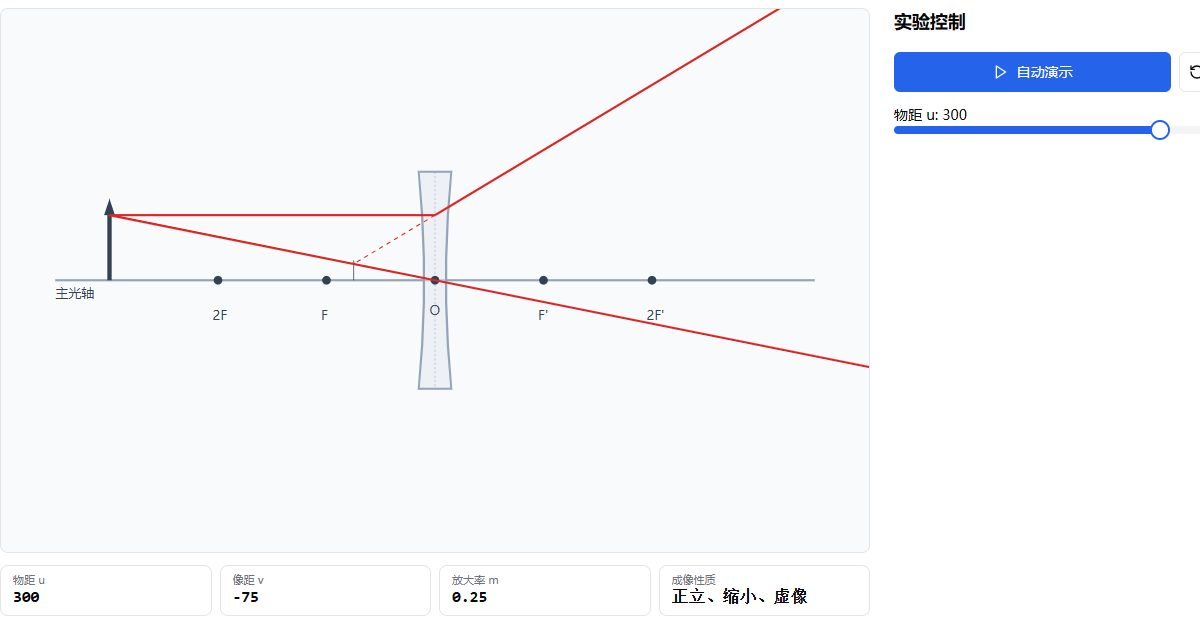
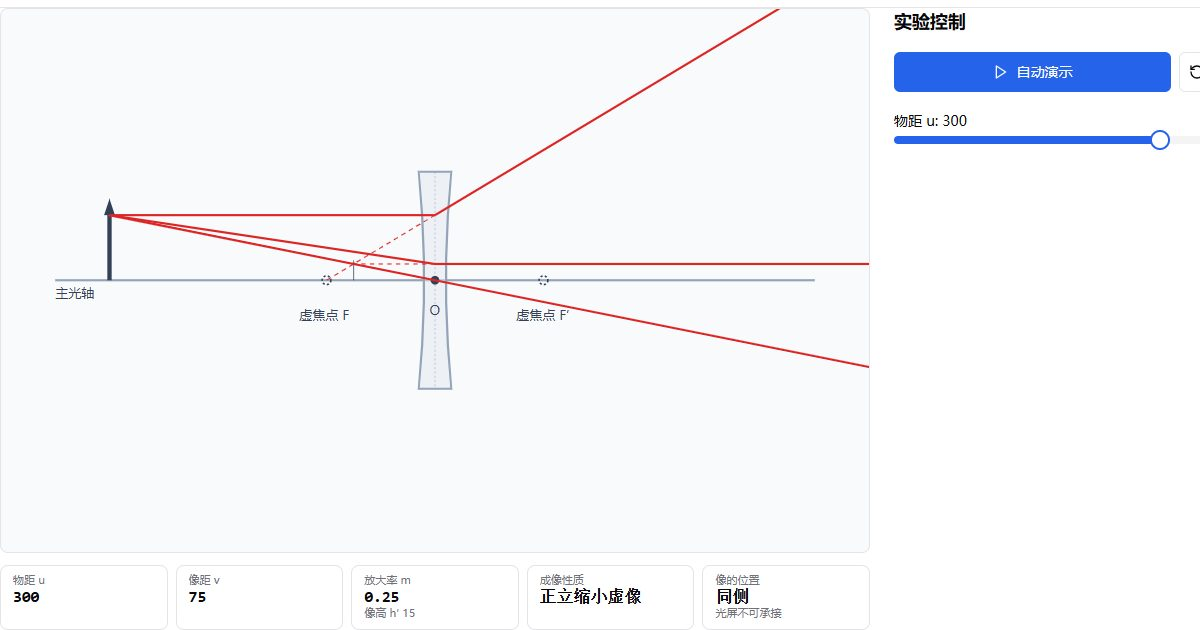
SEO again

diff --git a/scripts/gen-og-image.js b/scripts/gen-og-image.js
@@ -11,10 +11,13 @@ const BASE_URL = `http://localhost:${PORT}`;
 const CLIP_WIDTH = 1200;
 const CLIP_HEIGHT = 630;
 
+// 分享图与 demos.json 同源：新增 demo 后自动纳入，无需再手工维护 routes。
+// `buildDemoSEO` 按 slug 拼出 `og-${slug}.jpg`，因此这里少一条就会让该页 og:image 变成 404。
+const demosPath = path.join(__dirname, '..', 'src', 'lib', 'demos.json');
+const demos = JSON.parse(fs.readFileSync(demosPath, 'utf-8'));
 const routes = [
-  { slug: 'convex-lens', path: '/convex-lens/' },
-  { slug: 'concave-lens', path: '/concave-lens/' },
-  { slug: 'lens-imaging-rules', path: '/lens-imaging-rules/' },
+  { slug: 'dashboard', path: '/', isDemo: false },
+  ...demos.map((demo) => ({ slug: demo.slug, path: demo.path, isDemo: true })),
 ];
 
 async function waitForServer(url, { timeout = 30000, interval = 250 } = {}) {
@@ -81,46 +84,79 @@ async function generate() {
       await page.goto(`${BASE_URL}${route.path}`, { waitUntil: 'networkidle0', timeout: 30000 });
       await page.waitForFunction(() => window.__PRERENDER_READY__ === true, { timeout: 15000 });
 
-      // 将演示工作区滚动到内容区顶部，保证截图取到画布 + KPI + 侧栏
-      await page.evaluate(() => {
+      // 演示页：把演示工作区滚动到内容区顶部，保证截图取到画布 + KPI + 侧栏
+      // 首页：回到顶部，截图取站点头部 + 标题 + 演示卡片
+      await page.evaluate((isDemo) => {
+        if (!isDemo) {
+          window.scrollTo(0, 0);
+          return;
+        }
         const workspace = document.querySelector('[data-demo-workspace]');
         if (workspace) workspace.scrollIntoView({ block: 'start' });
-      });
+      }, route.isDemo);
       await new Promise((resolve) => setTimeout(resolve, 300));
 
-      const rect = await page.evaluate(() => {
-        const row = document.querySelector('[data-demo-row]');
-        const workspace = document.querySelector('[data-demo-workspace]');
-        if (!row || !workspace) return null;
-        const r = row.getBoundingClientRect();
-        const w = workspace.getBoundingClientRect();
-        return { x: r.x, y: w.y, width: r.width, height: r.height };
-      });
+      let clip;
+      if (route.isDemo) {
+        const rect = await page.evaluate(() => {
+          const row = document.querySelector('[data-demo-row]');
+          const workspace = document.querySelector('[data-demo-workspace]');
+          if (!row || !workspace) return null;
+          const r = row.getBoundingClientRect();
+          const w = workspace.getBoundingClientRect();
+          return { x: r.x, y: w.y, width: r.width, height: r.height };
+        });
 
-      if (!rect) {
-        throw new Error(`${route.path} 未找到演示工作区，无法生成分享图`);
+        if (!rect) {
+          throw new Error(`${route.path} 未找到演示工作区，无法生成分享图`);
+        }
+
+        clip = {
+          x: Math.max(0, Math.round(rect.x)),
+          y: Math.min(1000 - CLIP_HEIGHT, Math.max(0, Math.round(rect.y) - 8)),
+          width: Math.min(CLIP_WIDTH, Math.round(rect.width)),
+          height: CLIP_HEIGHT,
+        };
+      } else {
+        const rect = await page.evaluate(() => {
+          const container = document.querySelector('[data-page-container]');
+          if (!container) return null;
+          const r = container.getBoundingClientRect();
+          return { x: r.x, y: r.y, width: r.width, height: r.height };
+        });
+
+        if (!rect) {
+          throw new Error(`${route.path} 未找到页面容器，无法生成分享图`);
+        }
+
+        clip = {
+          x: Math.max(0, Math.round(rect.x)),
+          y: Math.min(1000 - CLIP_HEIGHT, Math.max(0, Math.round(rect.y))),
+          width: Math.min(CLIP_WIDTH, Math.round(rect.width)),
+          height: CLIP_HEIGHT,
+        };
       }
-
-      const clipX = Math.max(0, Math.round(rect.x));
-      const clipY = Math.min(
-        1000 - CLIP_HEIGHT,
-        Math.max(0, Math.round(rect.y) - 8),
-      );
-      const clipWidth = Math.min(CLIP_WIDTH, Math.round(rect.width));
 
       const target = path.join(__dirname, '..', 'public', `og-${route.slug}.jpg`);
       await page.screenshot({
         path: target,
         type: 'jpeg',
         quality: 82,
-        clip: { x: clipX, y: clipY, width: clipWidth, height: CLIP_HEIGHT },
+        clip,
       });
 
       const size = fs.statSync(target).size;
       console.log(`✅ 生成: public/og-${route.slug}.jpg (${Math.round(size / 1024)} KB)`);
     }
 
-    console.log('🎉 og:image 生成完成！');
+    const missing = routes.filter(
+      (route) => !fs.existsSync(path.join(__dirname, '..', 'public', `og-${route.slug}.jpg`)),
+    );
+    if (missing.length) {
+      throw new Error(`以下路由缺少分享图: ${missing.map((route) => route.slug).join(', ')}`);
+    }
+
+    console.log(`🎉 og:image 生成完成（共 ${routes.length} 张）！`);
   } finally {
     if (browser) await browser.close();
   }

diff --git a/index.html b/index.html
@@ -5,25 +5,25 @@
     <meta name="viewport" content="width=device-width, initial-scale=1.0" />
     
     <!-- 基础SEO优化 -->
-    <title>理科演示平台 - 数学·物理·化学·生物 交互式学习 | Physics Learn</title>
+    <title>理科演示平台 - 数学·物理·化学·生物互动演示</title>
     <meta name="description" content="面向小学、初中、高中的理科互动演示平台，覆盖数学、物理、化学、生物四科：二次函数图像与参数、斜面摩擦与受力分析、光的折射、凸透镜成像规律、凹透镜成像规律、杠杆力矩、单摆简谐振动、电磁感应、溶解度曲线、孟德尔遗传、光合作用与呼吸作用等交互式演示，配合实时数据、曲线联动与参数调节，把抽象概念变成可拖动、可观察的直观过程。" />
     <meta name="keywords" content="理科学习,数学演示,物理实验,化学演示,生物演示,二次函数图像,凸透镜成像规律,凸透镜,凹透镜成像规律,凹透镜,凸透镜成像实验,电磁感应,溶解度曲线,孟德尔遗传,光合作用,互动教学,初中理科" />
-    <meta name="author" content="Physics Learn Team" />
+    <meta name="author" content="理科演示平台" />
     
     <!-- Open Graph 社交媒体优化 -->
-    <meta property="og:title" content="理科演示平台 - 数学·物理·化学·生物 交互式学习 | Physics Learn" />
+    <meta property="og:title" content="理科演示平台 - 数学·物理·化学·生物互动演示" />
     <meta property="og:description" content="面向小学、初中、高中的理科互动演示平台，覆盖数学、物理、化学、生物四科：二次函数图像与参数、斜面摩擦与受力分析、光的折射、凸透镜成像规律、凹透镜成像规律、杠杆力矩、单摆简谐振动、电磁感应、溶解度曲线、孟德尔遗传、光合作用与呼吸作用等交互式演示，配合实时数据、曲线联动与参数调节，把抽象概念变成可拖动、可观察的直观过程。" />
     <meta property="og:type" content="website" />
-    <meta property="og:url" content="https://learn.letsdoit.today" />
-    <meta property="og:image" content="https://learn.letsdoit.today/og-image.jpg" />
-    <meta property="og:site_name" content="Physics Learn" />
+    <meta property="og:url" content="https://learn.letsdoit.today/" />
+    <meta property="og:image" content="https://learn.letsdoit.today/og-dashboard.jpg" />
+    <meta property="og:site_name" content="理科演示平台" />
     <meta property="og:locale" content="zh_CN" />
     
     <!-- Twitter Card 优化 -->
     <meta name="twitter:card" content="summary_large_image" />
-    <meta name="twitter:title" content="理科演示平台 - 数学·物理·化学·生物 交互式学习 | Physics Learn" />
+    <meta name="twitter:title" content="理科演示平台 - 数学·物理·化学·生物互动演示" />
     <meta name="twitter:description" content="面向小学、初中、高中的理科互动演示平台，覆盖数学、物理、化学、生物四科：二次函数图像与参数、斜面摩擦与受力分析、光的折射、凸透镜成像规律、凹透镜成像规律、杠杆力矩、单摆简谐振动、电磁感应、溶解度曲线、孟德尔遗传、光合作用与呼吸作用等交互式演示，配合实时数据、曲线联动与参数调节，把抽象概念变成可拖动、可观察的直观过程。" />
-    <meta name="twitter:image" content="https://learn.letsdoit.today/twitter-image.jpg" />
+    <meta name="twitter:image" content="https://learn.letsdoit.today/og-dashboard.jpg" />
     
     <!-- 结构化数据 Schema.org：站点级（页面级 JSON-LD 由 useSEO 注入） -->
     <script type="application/ld+json">
@@ -34,7 +34,7 @@
           "@type": "WebSite",
           "@id": "https://learn.letsdoit.today/#website",
           "url": "https://learn.letsdoit.today",
-          "name": "Physics Learn 理科演示平台",
+          "name": "理科演示平台",
           "description": "面向小学、初中、高中的理科互动演示平台，覆盖数学、物理、化学、生物四科。",
           "inLanguage": "zh-CN",
           "publisher": { "@id": "https://learn.letsdoit.today/#organization" }
@@ -42,11 +42,11 @@
         {
           "@type": "EducationalOrganization",
           "@id": "https://learn.letsdoit.today/#organization",
-          "name": "Physics Learn",
+          "name": "理科演示平台",
           "url": "https://learn.letsdoit.today",
-          "logo": "https://learn.letsdoit.today/logo.png",
+          "logo": "https://learn.letsdoit.today/icon-512.png",
           "sameAs": [
-            "https://github.com/physics-learn"
+            "https://github.com/letsdoit-today/letslearn"
           ],
           "educationalLevel": "小学 / 初中 / 高中",
           "educationalSubject": ["数学", "物理", "化学", "生物"]

diff --git a/scripts/gen-sitemap.js b/scripts/gen-sitemap.js
@@ -37,9 +37,10 @@ function readDemos() {
   return demos;
 }
 
-function lastMod() {
+// 取指定路径集合中最近一次提交时间；任一路径无提交记录时 git 会报错，此时返回 null 并省略 lastmod
+function gitLastCommit(paths) {
   try {
-    const iso = execFileSync('git', ['log', '-1', '--format=%cI', '--', 'src/lib/demos.json'], {
+    const iso = execFileSync('git', ['log', '-1', '--format=%cI', '--', ...paths], {
       cwd: rootDir,
       encoding: 'utf-8',
       stdio: ['ignore', 'pipe', 'ignore'],
@@ -50,17 +51,39 @@ function lastMod() {
   }
 }
 
-function buildSitemap(demos, lastmod) {
-  const routes = [{ loc: `${SITE_URL}/` }];
+// 从 src/demos/*.tsx 的 `const SLUG = '...'` 反查每个 slug 对应的组件文件，
+// 使 lastmod 能跟随页面自身改动，而不是所有页面共用 demos.json 的提交时间
+function resolveDemoSources() {
+  const demosDir = path.join(rootDir, 'src', 'demos');
+  if (!fs.existsSync(demosDir)) return new Map();
+  const sources = new Map();
+  for (const file of fs.readdirSync(demosDir).filter((name) => name.endsWith('.tsx'))) {
+    const content = fs.readFileSync(path.join(demosDir, file), 'utf-8');
+    const matched = content.match(/const SLUG = '([^']+)'/);
+    if (matched) sources.set(matched[1], path.join('src', 'demos', file));
+  }
+  return sources;
+}
+
+function buildSitemap(demos, sources) {
+  // 首页会渲染整份 demo 列表，因此 demos.json 的改动对首页是真实的内容变化
+  const homePaths = ['src/lib/demos.json', 'index.html', 'src/App.tsx', 'src/components/Dashboard.tsx'];
+  const routes = [{ loc: `${SITE_URL}/`, lastmod: gitLastCommit(homePaths) }];
   for (const demo of demos) {
     const normalized = demo.path.replace(/^\/+|\/+$/g, '');
-    routes.push({ loc: `${SITE_URL}/${normalized}/` });
+    const source = sources.get(demo.slug);
+    // 只取该页自己的组件文件：若把 demos.json 也算进来，任何新增 demo 都会把
+    // 全部页面的 lastmod 一起刷新，Google 会判定 lastmod 不可靠而直接忽略它
+    routes.push({
+      loc: `${SITE_URL}/${normalized}/`,
+      lastmod: gitLastCommit(source ? [source] : ['src/lib/demos.json']),
+    });
   }
 
   const body = routes
     .map((route) => {
       const lines = [`        <loc>${route.loc}</loc>`];
-      if (lastmod) lines.push(`        <lastmod>${lastmod}</lastmod>`);
+      if (route.lastmod) lines.push(`        <lastmod>${route.lastmod}</lastmod>`);
       lines.push(`        <changefreq>${CHANGEFREQ}</changefreq>`);
       lines.push(`        <priority>${PRIORITY}</priority>`);
       return `    <url>\n${lines.join('\n')}\n    </url>`;
@@ -84,8 +107,8 @@ function extractLocs(xml) {
 
 function main() {
   const demos = readDemos();
-  const lastmod = lastMod();
-  const content = buildSitemap(demos, lastmod);
+  const sources = resolveDemoSources();
+  const content = buildSitemap(demos, sources);
   const total = demos.length + 1;
 
   if (isCheck) {
@@ -110,8 +133,9 @@ function main() {
   }
 
   fs.writeFileSync(sitemapPath, content);
+  const withLastmod = [...content.matchAll(/<lastmod>/g)].length;
   console.log(
-    `✓ 已生成 ${path.relative(rootDir, sitemapPath)}（${total} 条 URL${lastmod ? `，lastmod ${lastmod}` : '，未获取到 lastmod 已省略'}）`,
+    `✓ 已生成 ${path.relative(rootDir, sitemapPath)}（${total} 条 URL，${withLastmod} 条带按页计算的 lastmod）`,
   );
 }
 

diff --git a/src/components/Dashboard.tsx b/src/components/Dashboard.tsx
@@ -30,11 +30,11 @@ const Dashboard: React.FC = () => {
   );
 
   useSEO({
-    title: `理科模拟实验 - 互动式理科学习平台 | ${siteName}`,
+    title: `${siteName} - 数学·物理·化学·生物互动演示`,
     description:
       '面向小学、初中、高中的理科互动演示平台，覆盖数学、物理、化学、生物四科。二次函数图像与参数、斜面摩擦与受力分析、光的折射、凸透镜成像规律、凹透镜成像规律、杠杆力矩、单摆简谐振动、电磁感应、溶解度曲线、孟德尔遗传、光合作用与呼吸作用等演示均支持参数调节与实时数据联动，帮助直观理解抽象概念。',
     keywords: `理科学习,数学演示,物理实验,化学演示,生物演示,凸透镜成像规律,凹透镜成像规律,互动教学,初中理科,${demoKeywords.join(',')}`,
-    canonical: siteUrl,
+    canonical: `${siteUrl}/`,
     ogImage: `${siteUrl}/og-dashboard.jpg`,
     jsonLd: itemList,
   });
@@ -55,9 +55,9 @@ const Dashboard: React.FC = () => {
   }, []);
 
   return (
-    <div className="container mx-auto max-w-5xl px-3 sm:px-8">
+    <div className="container mx-auto max-w-5xl px-3 sm:px-8" data-page-container>
       <div className="mb-8">
-        <h1 className="text-3xl font-bold tracking-tight mb-2">理科模拟实验</h1>
+        <h1 className="text-3xl font-bold tracking-tight mb-2">理科演示平台</h1>
         <p className="text-muted-foreground">
           探索交互式数学、物理、化学与生物演示。
         </p>

diff --git a/src/lib/Meta.tsx b/src/lib/Meta.tsx
@@ -16,7 +16,7 @@ export type Demo = {
 }
 
 export const siteUrl = 'https://learn.letsdoit.today';
-export const siteName = 'Physics Learn';
+export const siteName = '理科演示平台';
 
 export const categoryLabels: Record<string, string> = {
   math: '数学',
@@ -51,8 +51,15 @@ function buildDemoSEOUncached(slug: string) {
   const subject = categoryLabels[demo.category] ?? '理科';
   const topic = demo.topic ?? '';
 
+  const brandSuffix = ` | ${siteName}`;
+  const pageTitle = demo.title
+    ? demo.title.includes(siteName)
+      ? demo.title
+      : `${demo.title}${brandSuffix}`
+    : `${demo.name} - ${subject}${topic}互动演示${brandSuffix}`;
+
   return {
-    title: demo.title ?? `${demo.name} - ${subject}${topic}互动演示 | ${siteName}`,
+    title: pageTitle,
     description: demo.description,
     keywords: [...demo.keywords, `${subject}学习`, `${subject}互动演示`].join(','),
     canonical: `${siteUrl}${demo.path}`,

diff --git a/public/404.html b/public/404.html
@@ -3,7 +3,7 @@
 <head>
     <meta charset="UTF-8">
     <meta name="viewport" content="width=device-width, initial-scale=1.0">
-    <title>Physics Learn - 理科演示平台</title>
+    <title>理科演示平台</title>
     <script>
         // 重定向到主页面，让 SPA 处理路由
         sessionStorage.redirect = location.pathname;

diff --git a/ROADMAP.md b/ROADMAP.md
@@ -260,7 +260,7 @@
 3. **小学「科学」的归属规则**（见 3.5）：按学科归组，还是单设分组。
 4. **壳层待改（均未开 change）**：
    - `src/components/Layout.tsx` 的 `menuGroups` 已扩充为「数学 / 物理 / 化学 / 生物」四组，**仍缺「地理」**。各分组按 `category` 过滤，因此新增条目只要 `category` 取对应学科值即可自动归类。
-   - `src/components/Dashboard.tsx` 的 SEO title/description 与首页大标题已改为覆盖四科的表述（「理科模拟实验」），并补充了 `ItemList` 结构化数据与各学科数量摘要。
+   - `src/components/Dashboard.tsx` 的 SEO title/description 与首页大标题已改为覆盖四科的表述（「理科演示平台」），并补充了 `ItemList` 结构化数据与各学科数量摘要。
    - `src/lib/demos.json` 的 `category` 原全为 `physics`；`add-solubility-curve` 已首次写入 `chemistry`，`add-mendel-inheritance` 与 `add-photosynthesis-respiration` 已写入 `biology`，`add-quadratic-function-graph` 已写入 `math`，地理开科时需同步约定其 `category` 取值。
 5. **SEO 元数据已收敛为单一事实源**（2026-11-27）：
    - `src/lib/Meta.tsx` 新增 `siteName`、`categoryLabels`、`getDemoBySlug`、`buildDemoSEO`，由 `demos.json` 派生 title 模板、description、keywords、canonical、ogImage 与页面级 `BreadcrumbList` JSON-LD；15 个 demo 页面统一调用 `useSEO(buildDemoSEO(SLUG))`，不再各自硬编码。
@@ -269,6 +269,14 @@
    - `public/manifest.json` 与 `public/404.html` 的站点名称同步更新为「理科演示平台」。
    - 待办：`src/components/Layout.tsx` 的 `menuGroups` 仍缺「地理」分组，地理开科时补。
 6. **README 与 ROADMAP 的分工已固化**：README 只写「如何新增 demo」，本文件写「做什么、优先级如何」，新增 demo 时只更新本文件。
+7. **SEO 硬约束（不可省略，针对 Google Search Console 的两类问题：已抓取未编入索引 / 规范网址配置错误）**。以下六条对所有页面（含首页与新增 demo）永久生效，任何新增或改动页面都必须同时满足：
+   - **分享图必须存在**：每个路由都要有 `public/og-{slug}.jpg`（1200×630）。`scripts/gen-og-image.js` 的 routes 由 `demos.json` 自动派生并内置首页（slug `dashboard`），**不要手写路由列表**；生成后脚本会自检缺图并报错。禁止再引用 `og-image.jpg` / `twitter-image.jpg` 这类不存在的旧文件名。
+   - **canonical 必须自引用**：页面 canonical 必须与 sitemap 里该页的 URL 完全一致（含结尾斜杠）。首页统一为 `${siteUrl}/`，demo 页统一为 `${siteUrl}/{slug}/`，不得出现无斜杠、测试域名或带追踪参数的写法。
+   - **品牌名唯一且不限于物理**：全站（页面 title、`index.html`、`manifest.json`、`404.html`、JSON-LD、`robots.txt` 注释）统一用「理科演示平台」。`src/lib/Meta.tsx` 的 `siteName` 是唯一事实源，`buildDemoSEO` 会自动为每个 demo 标题追加 ` | 理科演示平台`，因此 **`demos.json` 的 `title` 里不要再写品牌名**。站点覆盖数学 / 物理 / 化学 / 生物四科，不得再出现 `Physics Learn` 这类把范围说窄的英文品牌（仓库名用 `letslearn`）。
+   - **robots.txt 只保留必要内容**：`User-agent: * / Allow: /` + `Sitemap` 声明。**不要加 `Crawl-delay`**（Bing / Yandex 会真的降速），**不要 `Disallow` 不存在或需要被索引的路径**。
+   - **sitemap lastmod 按页计算**：`scripts/gen-sitemap.js` 取每个 demo 自己 `src/demos/<File>.tsx` 的最近提交时间；首页取 `demos.json` + `index.html` + `App.tsx` + `Dashboard.tsx`。**不要把 `demos.json` 混进 demo 页的路径集合**——否则新增任意 demo 会刷新全部页面 lastmod，Google 会判定 lastmod 不可靠而整体忽略。
+   - **结构化数据引用的资源必须真实存在**：`index.html` 中 `EducationalOrganization.logo` 指向 `icon-512.png`（`public/` 内已有）。新增 JSON-LD 时不要引用未产出的文件名。
+   - 校验方式：`npm run sitemap:check` + `npm run og:image` + 构建后抽查 `dist/` 下各页 `canonical` 与 `og:image` 是否一一对应且返回 200。
 
 ---
 
@@ -280,5 +288,7 @@
 - [ ] 在 `src/lib/demos.json` 追加元数据（slug / name / category / path / description / keywords），`category` 需取对应学科
 - [ ] 在 `src/lib/demoIcons.tsx` 增加 slug 的图标映射
 - [ ] 在 `src/App.tsx` 的 `demoComponents` 注册组件
-- [ ] 运行 `npm run sitemap` 重新生成站点地图
+- [ ] 运行 `npm run sitemap` 重新生成站点地图（`npm run sitemap:check` 校验同步）
+- [ ] 运行 `npm run og:image` 生成该页分享图（`og:image` 会自动覆盖新 slug，缺图会报错）
+- [ ] 核对 SEO 硬约束（第 5 节第 7 条）：canonical 带尾斜杠、`og:image` 可访问、品牌名统一、robots.txt 无新增禁用项
 - [ ] 回到本文件勾选对应条目，补上 slug，并更新第 1 节的学科 × 学段计数

diff --git a/README.md b/README.md
@@ -7,11 +7,17 @@ To add a new demo to this project, follow these steps:
 -  Add an icon mapping for the new `slug` in `src/lib/demoIcons.tsx`.
 -  Register the component in the `demoComponents` map in `App.tsx`.
 -  In the demo component, call `useSEO(buildDemoSEO(SLUG))` once — do **not** hand-write title/description/keywords. `buildDemoSEO` in `src/lib/Meta.tsx` derives the title template, keywords, canonical, og/twitter tags and the page-level JSON-LD (`BreadcrumbList` + `LearningResource`) from `demos.json`.
--  Run `npm run sitemap` to regenerate `public/sitemap.xml` from `demos.json` (`npm run sitemap:check` verifies it is in sync).
+-  Run `npm run sitemap` to regenerate `public/sitemap.xml` from `demos.json` (`npm run sitemap:check` verifies it is in sync). `lastmod` is computed per page from the git history of that page's own source file (`src/demos/<File>.tsx`, plus `demos.json` / `index.html` / `App.tsx` / `Dashboard.tsx` for the homepage) — never add `demos.json` to a demo page's path set, or adding one demo would refresh the `lastmod` of every page.
+-  Run `npm run og:image` after `vite build` to regenerate the social share images (`public/og-{slug}.jpg`, 1200x630). The route list is derived from `demos.json` (the homepage is included as slug `dashboard`), so a new demo needs no edit in `scripts/gen-og-image.js`; the script fails loudly if any route ends up without an image.
+-  SEO checklist — required for every page, see `ROADMAP.md` §5 item 7 for the full rules:
+   -  `canonical` must be self-referencing and byte-identical to the sitemap URL, trailing slash included (`${siteUrl}/` for the homepage, `${siteUrl}/{slug}/` for demos). Never hand-write it — `buildDemoSEO` already does this.
+   -  Every route must have a real `og:image`; never reference legacy filenames such as `og-image.jpg` / `twitter-image.jpg`.
+   -  Use the single brand name 「理科演示平台」 everywhere (page titles, `index.html`, `manifest.json`, `404.html`, JSON-LD). `siteName` in `src/lib/Meta.tsx` is the only source of truth: `buildDemoSEO` appends ` | 理科演示平台` to every demo title, so never write the brand into a `demos.json` `title` yourself. Do not introduce an English brand — the site covers four subjects, so a name like "Physics Learn" misstates its scope.
+   -  Do not add `Crawl-delay` or `Disallow` entries to `public/robots.txt` — it only needs `User-agent: * / Allow: /` plus the `Sitemap` line.
+   -  Any asset referenced from JSON-LD (`logo`, `image`) must actually exist in `public/`.
 -  `DemoPage` accepts an optional `extra` prop for content rendered below the demo workspace (comparison tables, related-demo links). Keep it outside the workspace row so the layout verifier still measures canvas / KPI / sidebar only.
 -  Canvas overlays are plain SVG groups drawn inside the scene (e.g. the movable screen in `ConvexLensSim`): bind pointer events on the root `<svg>` in a `useEffect`, map client coordinates back through `getScreenCTM().inverse()`, and hit-test in viewBox units so the overlay stays aligned at every viewport. Draw overlays *below* the arrows they must not cover, and call `svg.setPointerCapture` so dragging continues outside the element.
 -  When a demo adds sidebar controls, keep the total sidebar content height under one viewport: `npm run verify:layout` measures the real content height (last sidebar child's bottom minus sidebar top) and fails if it exceeds the viewport.
--  Run `npm run og:image` after `vite build` to regenerate the social share images (`public/og-{slug}.jpg`, 1200x630) for the routes listed in `scripts/gen-og-image.js`.
 -  Update the corresponding entry in `ROADMAP.md` (tick the checkbox and add the slug).
 
 
